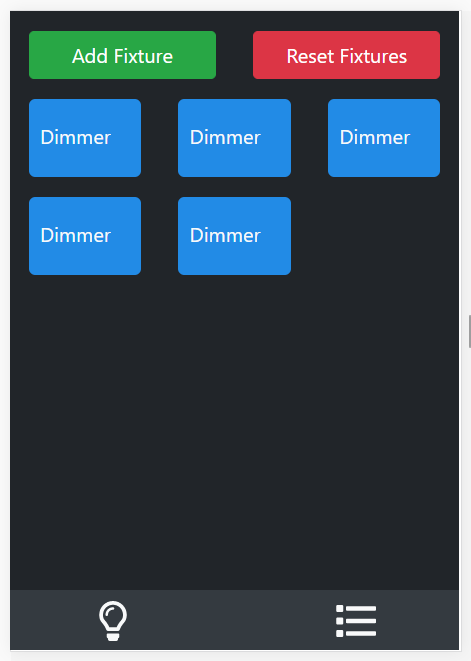
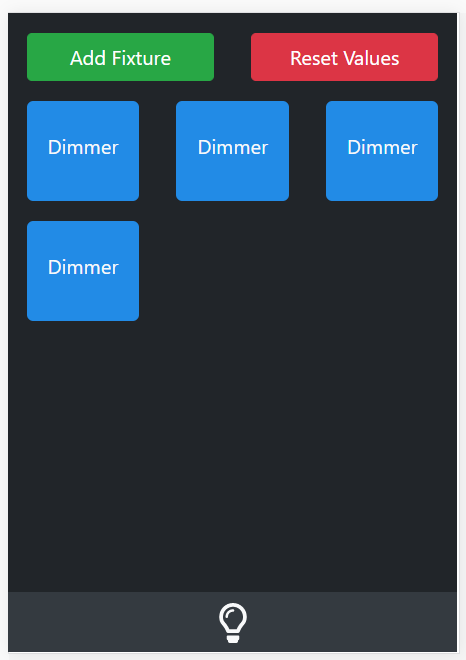
update screenshot

diff --git a/index.min.html b/index.min.html
@@ -20,14 +20,14 @@
           </li>
         </ul>
       </div>
-    </nav>--><div id="fixtures" class="tabcontent"><div class="container"><div class="row topBtns"><div class="col-6"><button class="btn btn-success btn-block" onclick="addFixtureModal()">Add Fixture</button></div><div class="col-6"><button class="btn btn-danger btn-block" onclick="resetFixtures()">Reset Fixture Values</button></div></div><div class="row" id="fixturesList"></div></div><div id="fixtureProfilesModal" class="modal" tabindex="-1" role="dialog"><div class="modal-dialog" role="document"><div class="modal-content"><div class="modal-body"><div class="form-group"><label class="dark" for="newFixtureStartDMXAddress">DMX Address:</label><input type="number" class="form-control" max="512" min="1" id="newFixtureStartDMXAddress" placeholder="DMX Address" value="1"></div><ul class="list-group" id="fixtureProfilesList"></ul></div></div></div></div></div><div id="cues" class="tabcontent"></div><div id="fixtureChannelsPage" class="tabcontent"><div class="container"><div class="row topBtns"><div class="col-8"><h5 id="fixtureChannelsName">Fixture name</h5></div><div class="col-4"><button id="fixtureSettingsBtn" class="btn btn-primary btn-block">Settings</button></div></div><!--<div class="row">
+    </nav>--><div id="fixtures" class="tabcontent"><div class="container"><div class="row topBtns"><div class="col-6"><button class="btn btn-success btn-block" onclick="addFixtureModal()">Add Fixture</button></div><div class="col-6"><button class="btn btn-danger btn-block" onclick="resetFixtures()">Reset Values</button></div></div><div class="row" id="fixturesList"></div></div><div id="fixtureProfilesModal" class="modal" tabindex="-1" role="dialog"><div class="modal-dialog" role="document"><div class="modal-content"><div class="modal-body"><div class="form-group"><label class="dark" for="newFixtureStartDMXAddress">DMX Address:</label><input type="number" class="form-control" max="512" min="1" id="newFixtureStartDMXAddress" placeholder="DMX Address" value="1"></div><ul class="list-group" id="fixtureProfilesList"></ul></div></div></div></div></div><div id="cues" class="tabcontent"></div><div id="fixtureChannelsPage" class="tabcontent"><div class="container"><div class="row topBtns"><div class="col-8"><h5 id="fixtureChannelsName">Fixture name</h5></div><div class="col-4"><button id="fixtureSettingsBtn" class="btn btn-primary btn-block">Settings</button></div></div><!--<div class="row">
           <div class="col-6">
             <button class="btn btn-success btn-block" onclick="">Save Settings</button>
           </div>
           <div class="col-6">
             <button class="btn btn-danger btn-block" onclick="">Delete Fixture</button>
           </div>
-        </div>--><div id="fixtureChannels"></div></div></div><div id="fixtureSettingsPage" class="tabcontent"><div class="container"><div class="row topBtns"><div class="col-3"><button id="fixtureChannelsBackBtn" class="btn btn-primary btn-block" onclick="">Back</button></div><div class="col-3"><h5 id="fixtureSettingsName">Fixture name</h5></div><div class="col-3"><button id="fixtureChannelsSaveBtn" class="btn btn-success btn-block">Save Settings</button></div><div class="col-3"><button id="fixtureChannelsDeleteBtn" class="btn btn-danger btn-block">Delete Fixture</button></div></div></div></div><div class="tab"><div class="row"><div class="col-6"><div onclick="openTab(&#34;fixtures&#34;)"><i class="tablinks far fa-lightbulb" id="fixturesTab"></i></div></div><!--<div class="col-6">
+        </div>--><div id="fixtureChannels"></div></div></div><div id="fixtureSettingsPage" class="tabcontent"><div class="container"><div class="row topBtns"><div class="col-3"><button id="fixtureChannelsBackBtn" class="btn btn-primary btn-block" onclick="">Back</button></div><div class="col-3"><h5 id="fixtureSettingsName">Fixture name</h5></div><div class="col-3"><button id="fixtureChannelsSaveBtn" class="btn btn-success btn-block">Save Settings</button></div><div class="col-3"><button id="fixtureChannelsDeleteBtn" class="btn btn-danger btn-block">Delete Fixture</button></div></div></div></div><div class="tab"><div class="row"><div class="col-12"><div onclick="openTab(&#34;fixtures&#34;)"><i class="tablinks far fa-lightbulb" id="fixturesTab"></i></div></div><!--<div class="col-6">
             <div onclick="openTab('cues')">
               <i class="tablinks far fa-list"></i>
             </div>

diff --git a/index.html b/index.html
@@ -45,7 +45,7 @@
             <button class="btn btn-success btn-block" onclick="addFixtureModal()">Add Fixture</button>
           </div>
           <div class="col-6">
-            <button class="btn btn-danger btn-block" onclick="resetFixtures()">Reset Fixture Values</button>
+            <button class="btn btn-danger btn-block" onclick="resetFixtures()">Reset Values</button>
           </div>
         </div>
         <div class="row" id="fixturesList"></div>
@@ -106,7 +106,7 @@
     </div>
     <div class="tab">
       <div class="row">
-        <div class="col-6">
+        <div class="col-12">
             <div onclick="openTab('fixtures')">
               <i class="tablinks far fa-lightbulb" id="fixturesTab"></i>
             </div>
